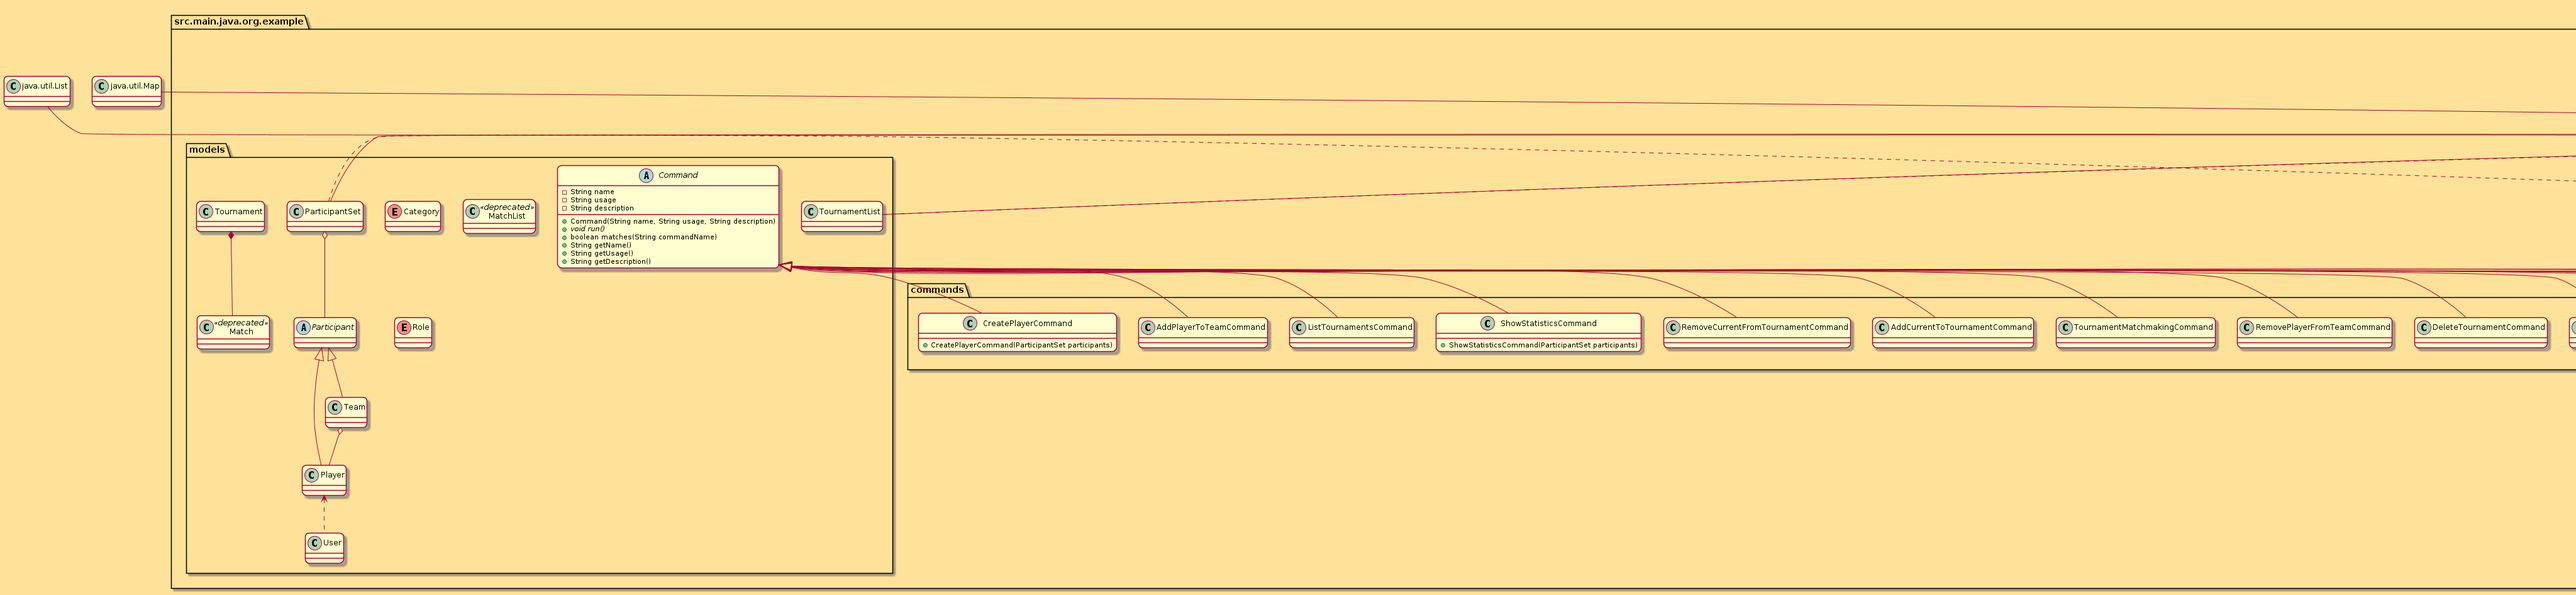
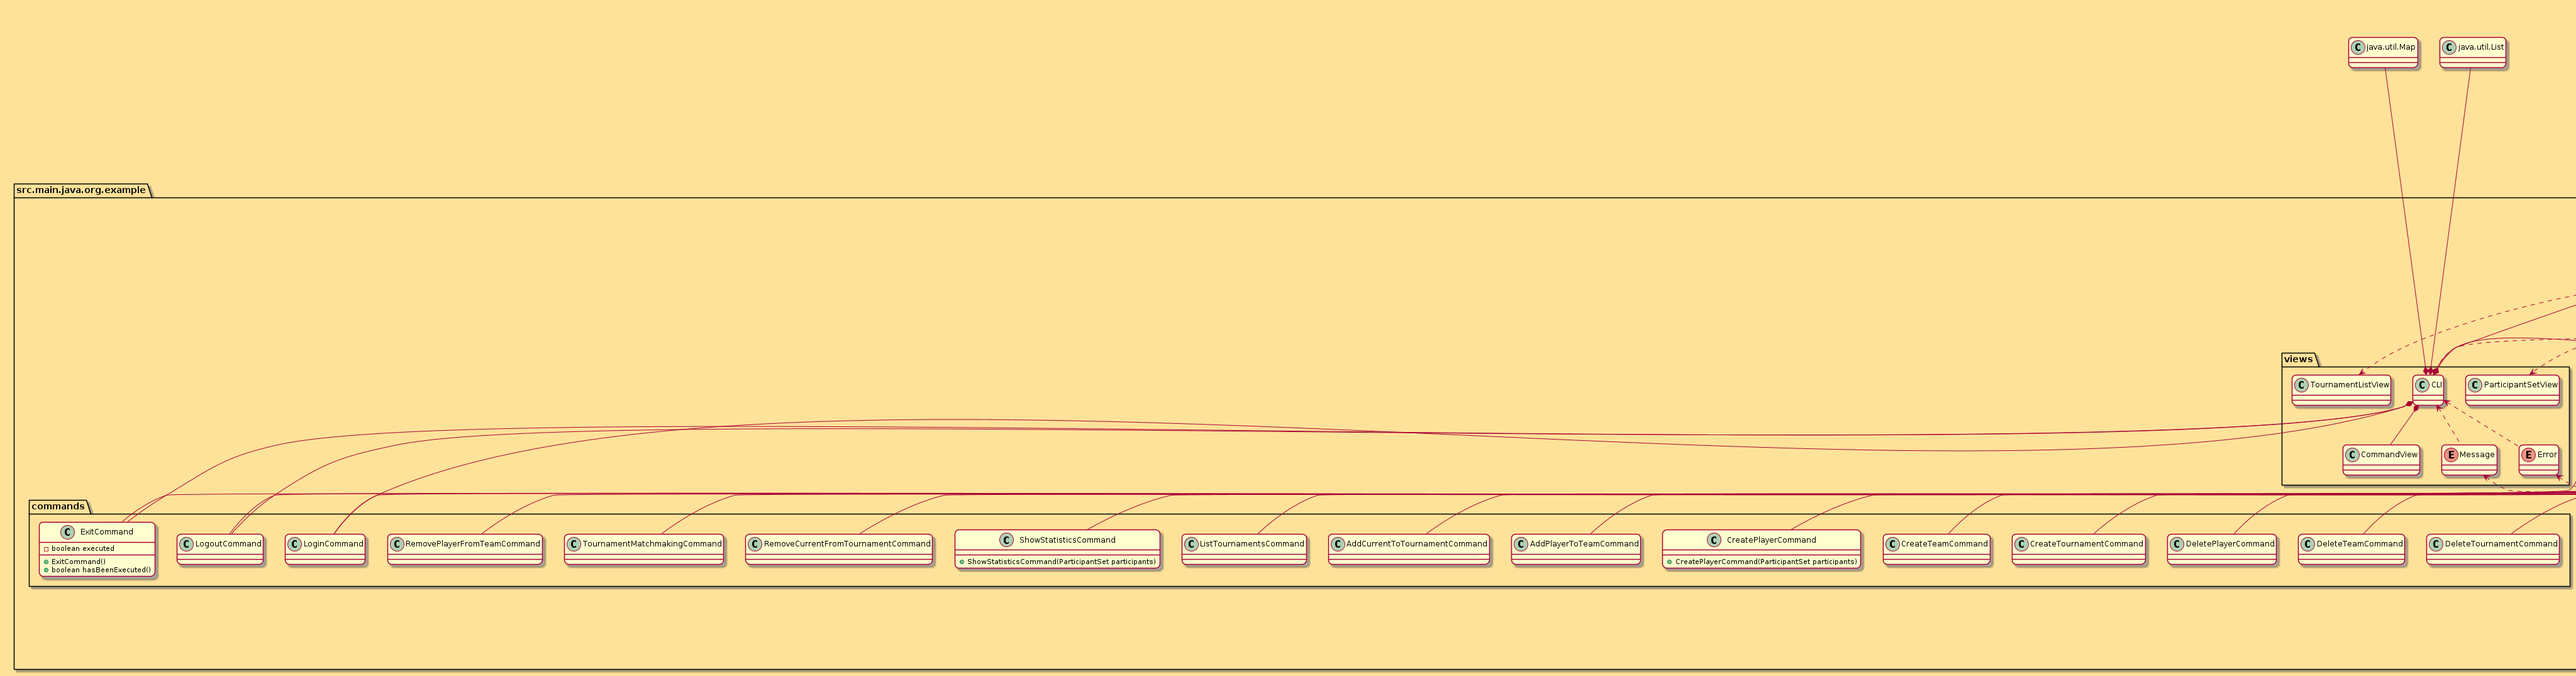
Empty commit

diff --git a/src/main/java/org/example/views/CLI.java b/src/main/java/org/example/views/CLI.java
@@ -68,23 +68,23 @@ public class CLI {
 
     private List<Command> createAdminCommandList() {
         return new ArrayList<>(Arrays.asList(
-                new AddPlayerToTeamCommand(participants),
-                new CreatePlayerCommand(participants),
-                new CreateTeamCommand(participants),
-                new CreateTournamentCommand(tournaments),
-                new DeletePlayerCommand(participants),
-                new DeleteTeamCommand(participants),
-                new DeleteTournamentCommand(tournaments),
-                new RemovePlayerFromTeamCommand(participants),
+                new TeamAddCommand(participants),
+                new PlayerCreateCommand(participants),
+                new TeamCreateCommand(participants),
+                new TournamentCreateCommand(tournaments),
+                new PlayerDeleteCommand(participants),
+                new TeamDeleteCommand(participants),
+                new TournamentDeleteCommand(tournaments),
+                new TeamRemoveCommand(participants),
                 new TournamentMatchmakingCommand(participants, tournaments)
         ));
     }
 
     private List<Command> createPlayerCommandList() {
         return new ArrayList<>(Arrays.asList(
-                new AddCurrentToTournamentCommand(participants, tournaments),
-                new RemoveCurrentFromTournamentCommand(participants, tournaments),
-                new ShowStatisticsCommand(participants)
+                new TournamentAddCommand(participants, tournaments),
+                new TournamentRemoveCommand(participants, tournaments),
+                new StatisticsShowCommand(participants)
         ));
     }
 
@@ -93,7 +93,7 @@ public class CLI {
                 new ExitCommand(),
                 new LoginCommand(),
                 new LogoutCommand(),
-                new ListTournamentsCommand(loginCommand.getRole(), tournaments)
+                new TournamentListCommand(loginCommand.getRole(), tournaments)
         ));
     }
 

diff --git a/src/main/java/org/example/commands/TournamentAddCommand.java b/src/main/java/org/example/commands/TournamentAddCommand.java
@@ -4,15 +4,15 @@ import org.example.models.Command;
 import org.example.models.ParticipantSet;
 import org.example.models.TournamentList;
 
-public class RemoveCurrentFromTournamentCommand extends Command {
+public class TournamentAddCommand extends Command {
     private final ParticipantSet participants;
     private final TournamentList tournaments;
 
-    public RemoveCurrentFromTournamentCommand(ParticipantSet participants, TournamentList tournaments) {
+    public TournamentAddCommand(ParticipantSet participants, TournamentList tournaments) {
         super(
-                "tournament-remove",
-                "<tournament name>",
-                "Deletes a tournament, regardless of its current state."
+                "tournament-add",
+                "<DNI | team name>;<tournament name>",
+                "Adds a player or a team to a tournament."
         );
 
         this.participants = participants;

diff --git a/src/main/java/org/example/commands/TournamentRemoveCommand.java b/src/main/java/org/example/commands/TournamentRemoveCommand.java
@@ -4,15 +4,15 @@ import org.example.models.Command;
 import org.example.models.ParticipantSet;
 import org.example.models.TournamentList;
 
-public class AddCurrentToTournamentCommand extends Command {
+public class TournamentRemoveCommand extends Command {
     private final ParticipantSet participants;
     private final TournamentList tournaments;
 
-    public AddCurrentToTournamentCommand(ParticipantSet participants, TournamentList tournaments) {
+    public TournamentRemoveCommand(ParticipantSet participants, TournamentList tournaments) {
         super(
-                "tournament-add",
-                "<DNI | team name>;<tournament name>",
-                "Adds a player or a team to a tournament."
+                "tournament-remove",
+                "<tournament name>",
+                "Deletes a tournament, regardless of its current state."
         );
 
         this.participants = participants;

diff --git a/src/main/java/org/example/commands/TeamRemoveCommand.java b/src/main/java/org/example/commands/TeamRemoveCommand.java
@@ -3,14 +3,14 @@ package org.example.commands;
 import org.example.models.Command;
 import org.example.models.ParticipantSet;
 
-public class ShowStatisticsCommand extends Command {
+public class TeamRemoveCommand extends Command {
     private final ParticipantSet participants;
 
-    public ShowStatisticsCommand(ParticipantSet participants) {
+    public TeamRemoveCommand(ParticipantSet participants) {
         super(
-                "statistics-show",
-                "",
-                "Shows the statistics of the logged player or their team, in their case."
+                "team-remove",
+                "<DNI>",
+                "Removes the specified player from the specified team."
         );
 
         this.participants = participants;

diff --git a/src/main/java/org/example/commands/TournamentCreateCommand.java b/src/main/java/org/example/commands/TournamentCreateCommand.java
@@ -3,14 +3,13 @@ package org.example.commands;
 import org.example.models.Command;
 import org.example.models.TournamentList;
 
-public class DeleteTournamentCommand extends Command {
+public class TournamentCreateCommand extends Command {
     private final TournamentList tournaments;
-
-    public DeleteTournamentCommand(TournamentList tournaments) {
+    public TournamentCreateCommand(TournamentList tournaments) {
         super(
-                "tournament-delete",
-                "<name>",
-                "Deletes the specified tournament."
+                "tournament-create",
+                "<name>;<start date>;<end date>;<league>;<sport>}",
+                "Creates a tournament."
         );
 
         this.tournaments = tournaments;

diff --git a/src/main/java/org/example/commands/TournamentDeleteCommand.java b/src/main/java/org/example/commands/TournamentDeleteCommand.java
@@ -3,13 +3,14 @@ package org.example.commands;
 import org.example.models.Command;
 import org.example.models.TournamentList;
 
-public class CreateTournamentCommand extends Command {
+public class TournamentDeleteCommand extends Command {
     private final TournamentList tournaments;
-    public CreateTournamentCommand(TournamentList tournaments) {
+
+    public TournamentDeleteCommand(TournamentList tournaments) {
         super(
-                "tournament-create",
-                "<name>;<start date>;<end date>;<league>;<sport>}",
-                "Creates a tournament."
+                "tournament-delete",
+                "<name>",
+                "Deletes the specified tournament."
         );
 
         this.tournaments = tournaments;

diff --git a/src/main/java/org/example/commands/StatisticsShowCommand.java b/src/main/java/org/example/commands/StatisticsShowCommand.java
@@ -3,14 +3,14 @@ package org.example.commands;
 import org.example.models.Command;
 import org.example.models.ParticipantSet;
 
-public class CreateTeamCommand extends Command {
+public class StatisticsShowCommand extends Command {
     private final ParticipantSet participants;
 
-    public CreateTeamCommand(ParticipantSet participants) {
+    public StatisticsShowCommand(ParticipantSet participants) {
         super(
-                "team-create",
-                "<name>",
-                "Creates a team in the system."
+                "statistics-show",
+                "",
+                "Shows the statistics of the logged player or their team, in their case."
         );
 
         this.participants = participants;

diff --git a/src/main/java/org/example/commands/PlayerDeleteCommand.java b/src/main/java/org/example/commands/PlayerDeleteCommand.java
@@ -3,14 +3,14 @@ package org.example.commands;
 import org.example.models.Command;
 import org.example.models.ParticipantSet;
 
-public class RemovePlayerFromTeamCommand extends Command {
+public class PlayerDeleteCommand extends Command {
     private final ParticipantSet participants;
 
-    public RemovePlayerFromTeamCommand(ParticipantSet participants) {
+    public PlayerDeleteCommand(ParticipantSet participants) {
         super(
-                "team-remove",
+                "player-delete",
                 "<DNI>",
-                "Removes the specified player from the specified team."
+                "Removes a player from the system"
         );
 
         this.participants = participants;

diff --git a/src/main/java/org/example/commands/TeamDeleteCommand.java b/src/main/java/org/example/commands/TeamDeleteCommand.java
@@ -3,14 +3,14 @@ package org.example.commands;
 import org.example.models.Command;
 import org.example.models.ParticipantSet;
 
-public class DeletePlayerCommand extends Command {
+public class TeamDeleteCommand extends Command {
     private final ParticipantSet participants;
 
-    public DeletePlayerCommand(ParticipantSet participants) {
+    public TeamDeleteCommand(ParticipantSet participants) {
         super(
-                "player-delete",
-                "<DNI>",
-                "Removes a player from the system"
+                "team-delete",
+                "<name>",
+                "Removes a team from the list of teams"
         );
 
         this.participants = participants;

diff --git a/src/main/java/org/example/commands/TeamCreateCommand.java b/src/main/java/org/example/commands/TeamCreateCommand.java
@@ -3,14 +3,14 @@ package org.example.commands;
 import org.example.models.Command;
 import org.example.models.ParticipantSet;
 
-public class DeleteTeamCommand extends Command {
+public class TeamCreateCommand extends Command {
     private final ParticipantSet participants;
 
-    public DeleteTeamCommand(ParticipantSet participants) {
+    public TeamCreateCommand(ParticipantSet participants) {
         super(
-                "team-delete",
+                "team-create",
                 "<name>",
-                "Removes a team from the list of teams"
+                "Creates a team in the system."
         );
 
         this.participants = participants;

diff --git a/src/main/java/org/example/commands/TournamentListCommand.java b/src/main/java/org/example/commands/TournamentListCommand.java
@@ -4,11 +4,11 @@ import org.example.models.Command;
 import org.example.models.Role;
 import org.example.models.TournamentList;
 
-public class ListTournamentsCommand extends Command {
+public class TournamentListCommand extends Command {
     private Role role;
     private final TournamentList tournaments;
 
-    public ListTournamentsCommand(Role role, TournamentList tournaments) {
+    public TournamentListCommand(Role role, TournamentList tournaments) {
         super(
                 "tournament-list",
                 "",

diff --git a/src/main/java/org/example/commands/PlayerCreateCommand.java b/src/main/java/org/example/commands/PlayerCreateCommand.java
@@ -3,8 +3,8 @@ package org.example.commands;
 import org.example.models.Command;
 import org.example.models.ParticipantSet;
 
-public class CreatePlayerCommand extends Command {
-    public CreatePlayerCommand(ParticipantSet participants) {
+public class PlayerCreateCommand extends Command {
+    public PlayerCreateCommand(ParticipantSet participants) {
         super(
                 "player-create",
                 "<DNI>;<name>;<surnames>",
